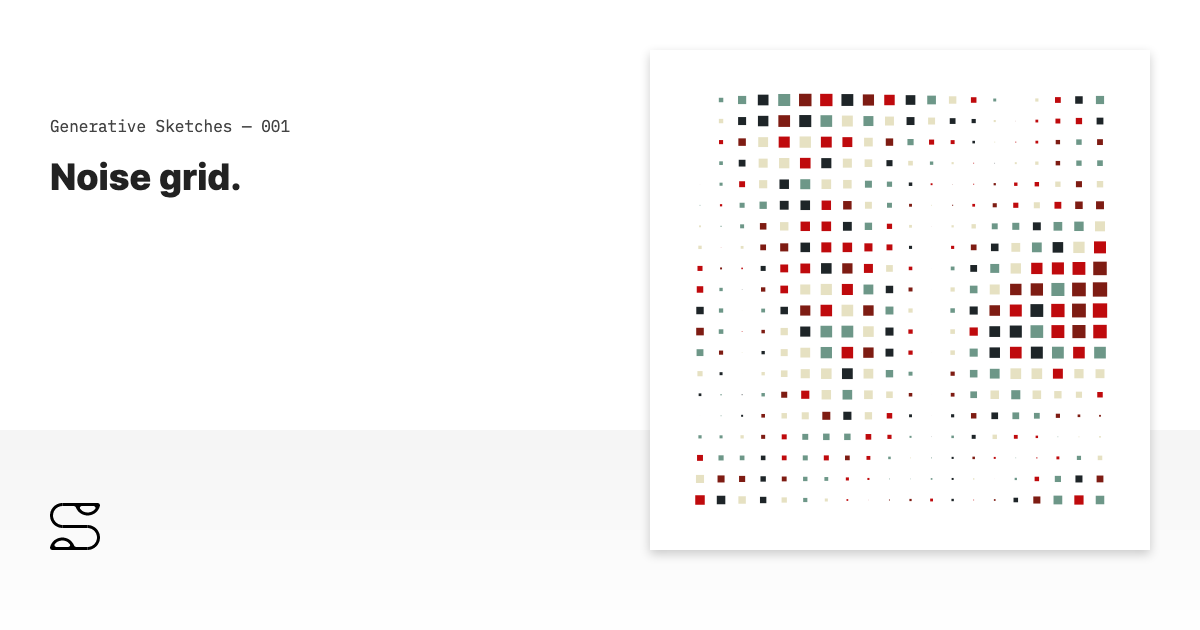
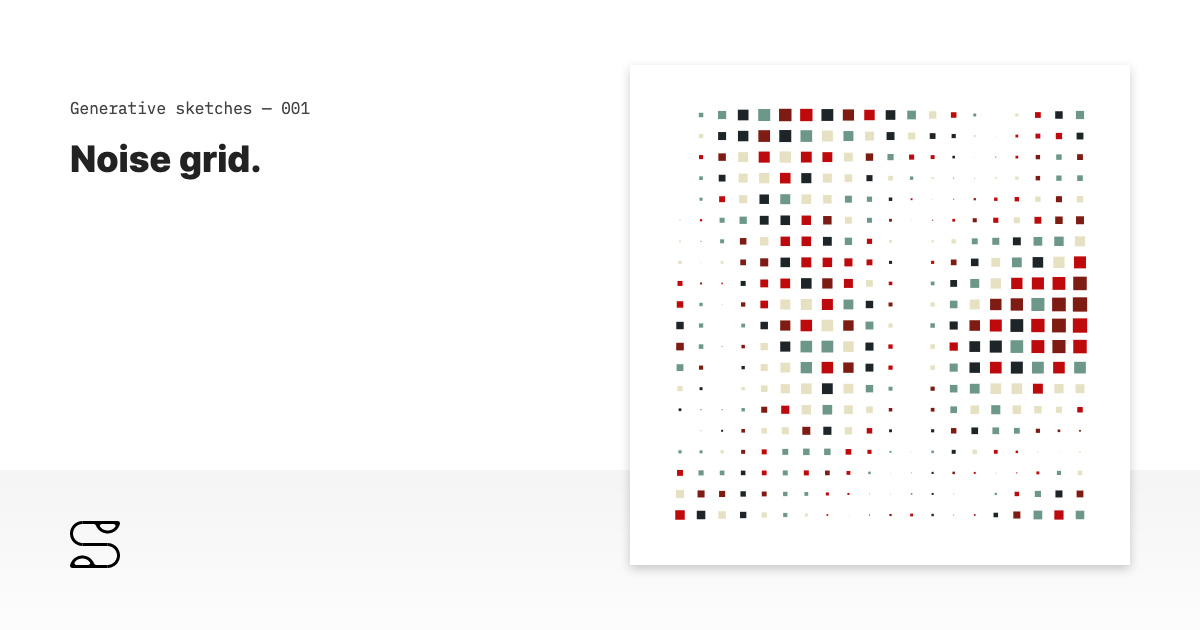
improve meta asset generation

diff --git a/layouts/Sketch.js b/layouts/Sketch.js
@@ -10,9 +10,12 @@ import { Text } from 'components/Text'
 
 const size = 1000
 
+const isPuppeteer = process.env.IS_PUPPETEER
+
 export const Sketch = ({
   extra = null,
   id,
+  initialSeed,
   next,
   prev,
   random,
@@ -21,14 +24,18 @@ export const Sketch = ({
 }) => {
   const router = useRouter()
   const canvasRef = useRef()
-  const isPupeteer = router.query.pupeteer
 
-  const randomize = () => {
-    const seed = random.getRandomSeed()
+  const reseed = (seed = random.getRandomSeed()) => {
     // Re-seed the random module
     random.setSeed(seed)
+
     // Update URL state, to enable sharing.
-    router.push(`/sketches/${id}?seed=${seed}`)
+    router.push({
+      pathname: `/sketches/${id}`,
+      query: {
+        seed
+      }
+    })
   }
 
   const draw = () => {
@@ -42,7 +49,7 @@ export const Sketch = ({
   }
 
   const redraw = () => {
-    randomize()
+    reseed()
     draw()
   }
 
@@ -56,7 +63,7 @@ export const Sketch = ({
     if (urlSeed) {
       random.setSeed(urlSeed)
     } else {
-      randomize()
+      reseed(initialSeed)
     }
 
     // Draw initial sketch.
@@ -110,19 +117,19 @@ export const Sketch = ({
       />
       <main
         className={cn('py4', {
-          isPupeteer,
+          isPuppeteer,
         })}
       >
         <div className="sketch container">
           <div className="info">
             <Stack>
-              {isPupeteer && (
+              {isPuppeteer && (
                 <Text className="mb3" variant="mono">
                   Generative sketches — {id}
                 </Text>
               )}
               <Text el="h1">{title}.</Text>
-              {!isPupeteer && <Pagination id={id} next={next} prev={prev} />}
+              {!isPuppeteer && <Pagination id={id} next={next} prev={prev} />}
             </Stack>
           </div>
           <div className="canvas">
@@ -130,13 +137,13 @@ export const Sketch = ({
             {extra}
           </div>
           <div className="actions">
-            {random.getSeed() && !isPupeteer && (
+            {random.getSeed() && !isPuppeteer && (
               <Button onClick={redraw} variant="link">
                 Randomize
               </Button>
             )}
           </div>
-          {isPupeteer && <img alt="SMHutch" src="/logo-dark.svg" />}
+          {isPuppeteer && <img alt="SMHutch" src="/logo-dark.svg" />}
         </div>
         <div className="bg" />
       </main>
@@ -149,31 +156,35 @@ export const Sketch = ({
             max-width: 1000px;
           }
 
-          .isPupeteer {
+          .isPuppeteer {
             width: 100%;
             height: 100vh;
           }
 
-          .isPupeteer .sketch {
+          .isPuppeteer .sketch {
             position: relative;
             height: calc(100vh - var(--space-4) - var(--space-4));
             grid-template-columns: 1fr 500px;
             grid-template-rows: 100%;
           }
 
-          .isPupeteer .canvas {
+          .isPuppeteer .sketch.container {
+            max-width: 1100px;
+          }
+
+          .isPuppeteer .canvas {
             display: flex;
             align-items: center;
           }
 
-          .isPupeteer img {
+          .isPuppeteer img {
             width: 50px;
             position: absolute;
             bottom: 30px;
             left: 20px;
           }
 
-          .isPupeteer canvas {
+          .isPuppeteer canvas {
             width: 566px;
           }
 

diff --git a/scripts/getMetaAssets.js b/scripts/getMetaAssets.js
@@ -5,36 +5,44 @@ import puppeteer from 'puppeteer'
 
 import { sketchIds } from '../lib/paths'
 
-
 const getSketchImages = async () => {
   const ids = await sketchIds()
   const publicSketchAssets = path.join(process.cwd(), 'public/sketches')
-  const existingAssets = await fs.readdirSync(publicSketchAssets)
-  const idsToGenerate = ids.filter(id => !existingAssets.includes(id))
+
+  const idsToGenerate = ids.filter(id => {
+    const needsPreview = !fs.existsSync(`${publicSketchAssets}/${id}/preview.png`)
+    return needsPreview
+  })
 
   // Only proceed if assets have not already been generated.
   if (!idsToGenerate.length) {
     console.log('No assets need generated.')
+    return
   }
 
-  // Launch headless
-  const browser = await puppeteer.launch()
-  const page = await browser.newPage()
-  // Sized for OG meta images.
-  await page.setViewport({
-    width: 1200,
-    height: 630,
+  const browser = await puppeteer.launch({
+    headless: true,
+    args: ['--user-agent=meta-puppeteer'],
   })
 
   const getImages = async (ids) => {
+    const page = await browser.newPage()
+  
+    // Sized for OG meta images.
+    await page.setViewport({
+      width: 1200,
+      height: 630,
+    })
+
     for (const id of ids) {
       const outDir = `public/sketches/${id}`
 
-      // Create new directory for images
-      await fs.mkdirSync(outDir)
+      if (!fs.existsSync(outDir)) {
+        fs.mkdirSync(outDir)
+      }
 
       // Go to meta page
-      await page.goto(`http://localhost:3000/sketches/meta/${id}`)
+      await page.goto(`http://localhost:5000/sketches/${id}?pupeteer=true`)
 
       // Screenshot entire page, for meta image
       await page.screenshot({ path: `${outDir}/meta.png` })
@@ -44,10 +52,11 @@ const getSketchImages = async () => {
 
       console.log(`${id} — Assets created.`)
     }
+
+    await browser.close()
   }
 
   await getImages(idsToGenerate)
-  await browser.close()
 }
 
 getSketchImages()

diff --git a/pages/_app.js b/pages/_app.js
@@ -1,4 +1,5 @@
 import Router from 'next/router'
+import { useState, useEffect } from 'react'
 
 import { GlobalCSS } from 'components/CSS'
 import { Footer } from 'components/Footer'
@@ -11,19 +12,20 @@ Router.events.on('routeChangeComplete', (url) => {
   GA_TRACKING_ID && trackPage(url)
 })
 
-const App = ({ Component, pageProps, router }) => {
+const isPuppeteer = process.env.IS_PUPPETEER
+
+const App = ({ Component, pageProps }) => {
   const ui = <Component {...pageProps} />
   const page = Component.isMDXComponent ? <MDX>{ui}</MDX> : ui
-  const isPupeteer = router.query.pupeteer
 
   return (
     <>
       <GlobalCSS />
       <GlobalMeta />
       <div className="app">
-        {!isPupeteer && <Header />}
+        {!isPuppeteer && <Header />}
         <div className="page">{page}</div>
-        {!isPupeteer && (
+        {!isPuppeteer && (
           <div className="footer">
             <Footer />
           </div>

diff --git a/next.config.js b/next.config.js
@@ -2,10 +2,17 @@ const withBundleAnalyzer = require('@next/bundle-analyzer')()
 const withMDX = require('@next/mdx')()
 
 module.exports = (_phase, { defaultConfig }) => {
+  const isPuppeteer = !!process.env.META
+
   const config = {
     ...defaultConfig,
+    devIndicators: {
+      // Hide prerender indicator during automation.
+      autoPrerender: !isPuppeteer
+    },
     env: {
       GA_TRACKING_ID: process.env.GA_TRACKING_ID,
+      IS_PUPPETEER: isPuppeteer,
       SITE_URL: process.env.SITE_URL
     },
     pageExtensions: ['js', 'jsx', 'md', 'mdx'],

diff --git a/pages/sketches/002.js b/pages/sketches/002.js
@@ -8,7 +8,7 @@ const random = Random.createRandom()
 export const settings = {
   id: '002',
   title: 'Bezier Arc',
-  previewSeed: '629560'
+  initialSeed: '629560'
 }
 
 function sketch({ ctx, size }) {

diff --git a/pages/sketches/001.js b/pages/sketches/001.js
@@ -9,7 +9,7 @@ const random = Random.createRandom()
 export const settings = {
   id: '001',
   title: 'Noise grid',
-  previewSeed: '14168'
+  initialSeed: '14168'
 }
 
 const count = 20

diff --git a/pages/sketches/003.js b/pages/sketches/003.js
@@ -8,6 +8,7 @@ const random = Random.createRandom()
 export const settings = {
   id: '003',
   title: 'Photo grid',
+  initialSeed: '764883',
   data: {
     images: [
       {

diff --git a/README.md b/README.md
@@ -23,7 +23,11 @@ yarn start
 yarn analyze
 
 # Lint JS.
-yarn lint 
+yarn lint
+
+# Generate sketch previews
+yarn meta:start
+yarn meta:generate
 ```
 
 ## Production
